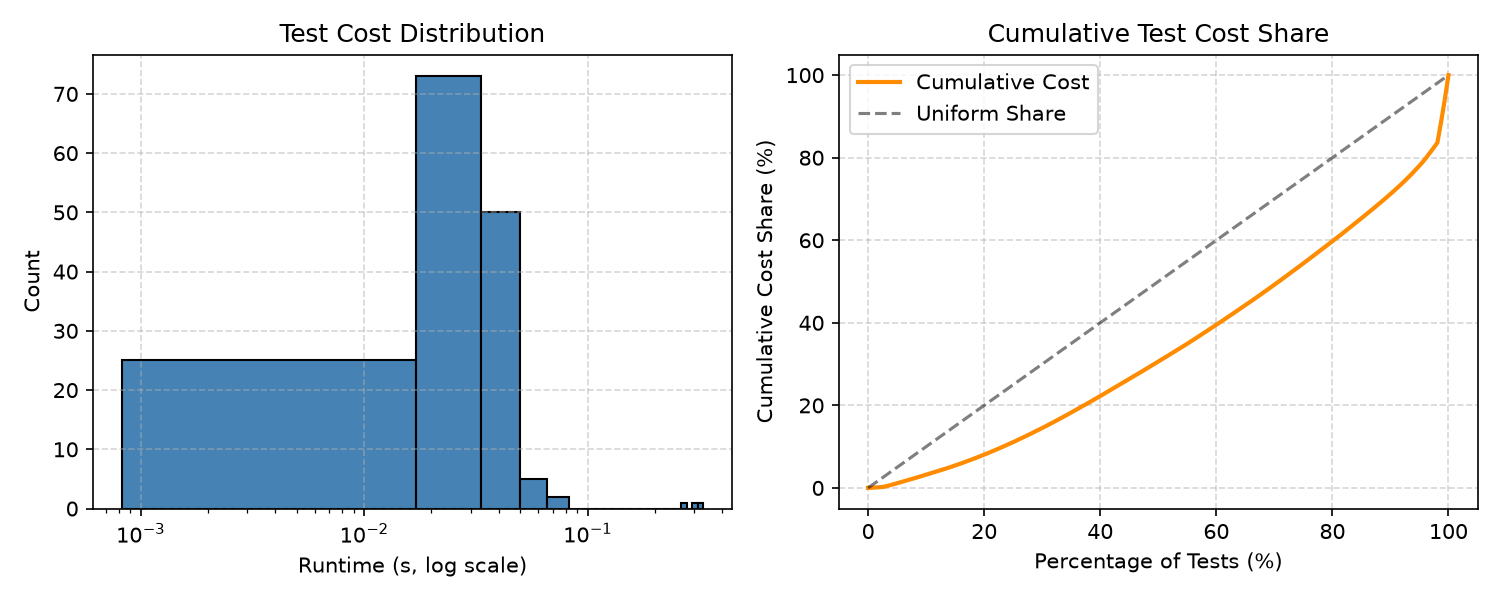
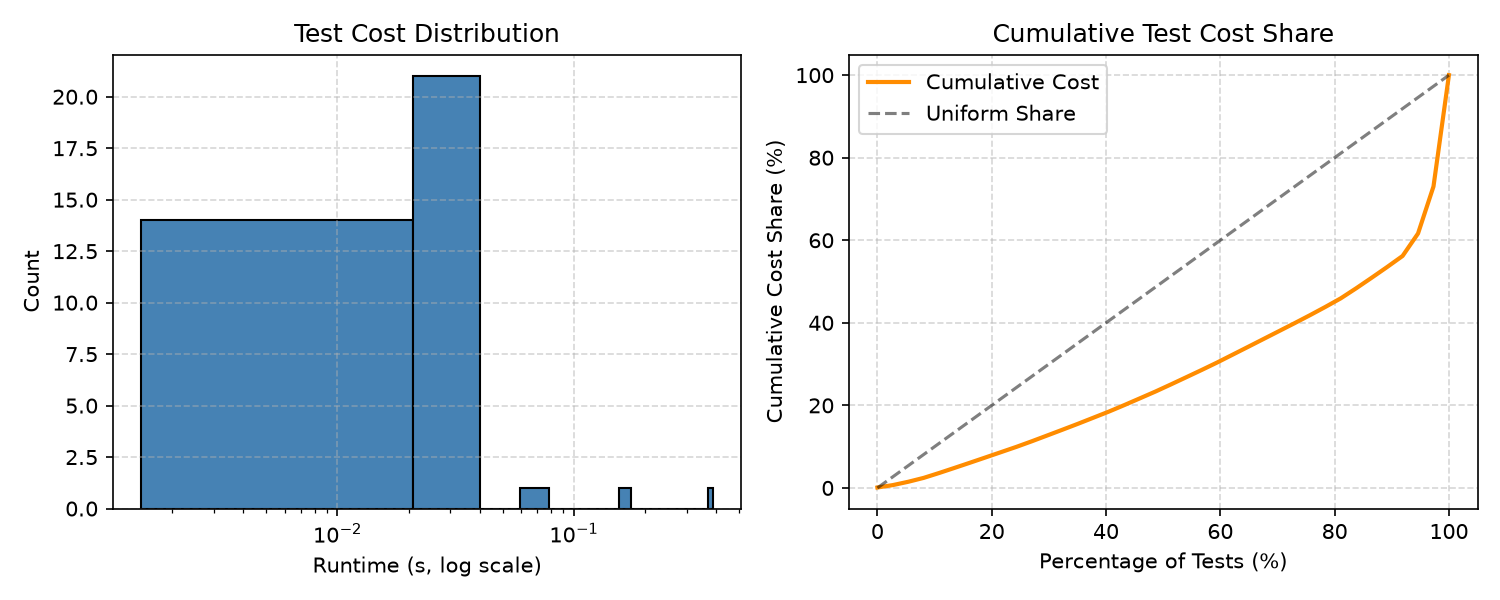
Manual Track J executed and results noted

diff --git a/results/track_j/SUMMARY.md b/results/track_j/SUMMARY.md
@@ -5,7 +5,7 @@
 - **NumPy Version**: 2.5.4
 - **SciPy Version**: 1.18.1
 - **Platform / OS**: Windows-11-10.0.26200-SP0
-- **Quick Execution Flag**: False
+- **Quick Execution Flag**: True
 - **Random Seed Management**: Explicit seeds across all stochastic selections
 
 ## Codebase Under Test Metrics
@@ -24,46 +24,87 @@
 | TOTAL_ALL_COMPILER | 2582 |
 
 ## J0: Baseline Profiling & Test Execution
-- **Total Tests in Universe**: 158
-- **Baseline Median Full-Suite Runtime**: 6.1621 s
-- **Passing Tests**: 158/158
-- **Per-Test Cost (min / median / max)**: 0.00083 s / 0.03013 s / 0.32686 s
-- **Top 10 Slowest Tests Runtime Share**: 23.98%
+- **Total Tests in Universe**: 38
+- **Baseline Median Full-Suite Runtime**: 0.6672 s
+- **Passing Tests**: 38/38
+- **Per-Test Cost (min / median / max)**: 0.00148 s / 0.02409 s / 0.38733 s
+- **Top 10 Slowest Tests Runtime Share**: 60.10%
 
 ### Top 15 Functions by Cumulative Execution Time (cProfile)
 | function | file_line | ncalls | tottime | cumtime |
 | --- | --- | --- | --- | --- |
-| run_ir | cc_ir.py:296 | 948 | 1.882 | 2.828 |
-| optimize_all | cc_passes.py:500 | 158 | 0.0006639 | 2.36 |
-| optimize | cc_passes.py:469 | 158 | 0.0192 | 2.36 |
-| dce | cc_passes.py:361 | 550 | 0.2361 | 2.2 |
-| live_after_each_instruction | cc_ir.py:243 | 1138 | 0.2881 | 1.792 |
-| build_cfg | cc_ir.py:111 | 2788 | 0.3934 | 1.64 |
-| compute_local_def_use | cc_ir.py:98 | 71980 | 0.465 | 1.374 |
-| get_def_use | cc_ir.py:54 | 342132 | 0.7912 | 1.042 |
-| run_machine | cc_vm.py:161 | 158 | 0.4635 | 0.916 |
-| const_fold_prop | cc_passes.py:55 | 942 | 0.1651 | 0.8832 |
-| compute_liveness | cc_ir.py:185 | 1296 | 0.2146 | 0.662 |
-| compile_to_ir | cc_lang.py:530 | 158 | 0.005754 | 0.5464 |
-| <built-in method builtins.isinstance> | ~:0 | 2185790 | 0.5376 | 0.5431 |
-| cse | cc_passes.py:251 | 550 | 0.1196 | 0.5223 |
-| build_live_ranges | cc_regalloc.py:67 | 158 | 0.1706 | 0.4921 |
+| run_ir | cc_ir.py:296 | 228 | 0.497 | 0.7468 |
+| run_machine | cc_vm.py:161 | 38 | 0.1222 | 0.2416 |
+| optimize_all | cc_passes.py:500 | 38 | 4.91e-05 | 0.1596 |
+| optimize | cc_passes.py:469 | 38 | 0.001117 | 0.1595 |
+| dce | cc_passes.py:361 | 125 | 0.01599 | 0.148 |
+| live_after_each_instruction | cc_ir.py:243 | 235 | 0.01872 | 0.1212 |
+| build_cfg | cc_ir.py:111 | 610 | 0.02542 | 0.1124 |
+| <built-in method builtins.isinstance> | ~:0 | 1488385 | 0.1094 | 0.1098 |
+| <built-in method builtins.len> | ~:0 | 1445751 | 0.09833 | 0.09833 |
+| compute_local_def_use | cc_ir.py:98 | 15813 | 0.03314 | 0.09694 |
+| eval_op | cc_lang.py:50 | 484817 | 0.08596 | 0.08596 |
+| get_def_use | cc_ir.py:54 | 74985 | 0.05472 | 0.07259 |
+| read_operand | cc_vm.py:181 | 216690 | 0.05131 | 0.06589 |
+| const_fold_prop | cc_passes.py:55 | 212 | 0.01151 | 0.06097 |
+| compute_liveness | cc_ir.py:185 | 273 | 0.01644 | 0.04806 |
 
 ### Code Coverage Breakdown
 | file | executable_lines | covered_lines | line_coverage_pct | covered_arcs |
 | --- | --- | --- | --- | --- |
 | cc_lang.py | 391 | 236 | 60.36 | 254 |
 | cc_ir.py | 256 | 206 | 80.47 | 260 |
-| cc_passes.py | 299 | 235 | 78.6 | 303 |
+| cc_passes.py | 299 | 233 | 77.93 | 299 |
 | cc_regalloc.py | 233 | 89 | 38.2 | 125 |
 | cc_vm.py | 181 | 139 | 76.8 | 163 |
-| TOTAL | 1360 | 905 | 66.54 | 1105 |
+| TOTAL | 1360 | 903 | 66.4 | 1101 |
 
 - Output Figure: `j0_test_cost_distribution.png`
 
+## J1: Test Suite Minimization (Weighted Set Cover)
+Evaluates full suite against random-until-cover, greedy heuristic, and exact 0/1 ILP minimization.
+- **Kill Matrix Execution**: partial: 0 of 20 mutants completed
+
+| coverage_kind | method | num_tests | summed_cost | actual_runtime | runtime_reduction_pct | coverage_preserved_pct | failing_tests | mutation_score_pct | optimal | solve_time |
+| --- | --- | --- | --- | --- | --- | --- | --- | --- | --- | --- |
+| all | full_suite | 38 | 1.436 | 1.661 | 0 | 100 | 0 | 100 | True | 0 |
+| lines | random_until_cover(mean_N=30.6) | 31 | 1.154 | 1.476 | 11.15 | 100 | 0 | 100 | False | 0 |
+| lines | greedy | 9 | 0.1384 | 0.1864 | 88.78 | 100 | 0 | 100 | False | 0.00406 |
+| lines | ilp | 7 | 0.1108 | 0.1511 | 90.9 | 100 | 0 | 100 | True | 0.06579 |
+| arcs | random_until_cover(mean_N=30.6) | 31 | 1.154 | 1.334 | 19.7 | 100 | 0 | 100 | False | 0 |
+| arcs | greedy | 10 | 0.2166 | 0.3748 | 77.44 | 100 | 0 | 100 | False | 0.01303 |
+| arcs | ilp | 8 | 0.1889 | 0.2968 | 82.13 | 100 | 0 | 100 | True | 0.06217 |
+
+- Output Figure: `j1_minimization_comparison.png`
+
+## J2: Test Prioritization
+Compares cumulative line coverage accumulation over time for greedy additional coverage, cost-ascending, and random orders.
+
+| strategy | normalized_auc |
+| --- | --- |
+| greedy_additional | 0.9974 |
+| cost_ascending | 0.9967 |
+| random_order(mean_over_20_seeds) | 0.9826 |
+
+- Output Figure: `j2_prioritization_curves.png`
+
+## J3: Fault-Injection & Mutation Testing
+Evaluates whether minimized test suites preserve mutant killing capability.
+
+- **Mutation Matrix Status**: partial: 0 of 20 mutants completed
+- **Total Injected Mutants**: 20
+- **Completed Mutants Evaluated**: 0
+- **Detectable Mutants by Full Suite**: 0
+
+> **Note on Fault Injection Proxy**: Fault injection in this benchmark modifies the instruction list output of individual optimization passes. This operates as an empirical proxy for fault-detection ability; structural coverage and fault-detection capability are not theoretically identical.
+
+| method | tests_kept | detectable_killed | detectable_missed | mutation_score_pct | missed_mutants |
+| --- | --- | --- | --- | --- | --- |
+| full | 38 | 0 | 0 | 100 | None |
+| greedy_lines | 9 | 0 | 0 | 100 | None |
+| ilp_lines | 7 | 0 | 0 | 100 | None |
+| greedy_arcs | 10 | 0 | 0 | 100 | None |
+| ilp_arcs | 8 | 0 | 0 | 100 | None |
+
 ## Verification Section
-### Failed Experiment Exceptions
-#### Experiment `INTERRUPTED`
-```python
-KeyboardInterrupt received.
-```
+- **No verification failures**

diff --git a/FAILURE_LOG.md b/FAILURE_LOG.md
@@ -29,5 +29,7 @@ Track bugs, misconceptions, hallucinations, and flawed logic introduced by AI to
 | 23 | I | The generated Track I run deviated silently from the specification: QML baselines were evaluated on one data split (test standard deviation 0) with a 17-parameter MLP that did not converge instead of the specified 13-parameter MLP, quantum phase estimation ran only one phase, Shor's algorithm only N = 15 and 21, the annealing experiment has no classical simulated-annealing baseline, and the specified comparison table was not produced. | Reading SUMMARY.md against the specification. | Not fixed because of the time limit; the report states every deviation, uses the Track B simulated-annealing results as the classical baseline and builds the comparison table by hand from the measured numbers. | Check generated results against the specification line by line; an AI may simplify a task without saying so. |
 | 24 | G | In the generated benchrun workload W2 the fixed-work batch of 4 processes finished in 12 to 16 ticks, although the design (100 ticks of calibrated work per process) implied about 400 ticks; the calibrated iterations per tick evidently did not match the speed of the spin loop that does the work (cause not isolated, probably system calls inside the calibration loop). | Comparing makespan_ticks in the output with the intended duration. | Not fixed; W2 is reported with this caveat and its one-tick resolution. | Calibrate with the same loop that is later measured, and sanity-check durations against the design. |
 | 25 | J | The generated mutation-testing code ran every test under every mutant through all pipeline variants with a very large step limit; in the full run (158 tests, 20 mutants) the kill-matrix computation did not finish and was interrupted by the user (traceback inside the interpreter loop executing a mutated program); the quick run with 38 tests had finished. | Interrupting the run and reading the traceback location. | Step limit proportional to the reference run, only the variants a mutant can affect, a time guard with partial results and progress output. | Test-time cost must be estimated before scaling up: tests x mutants x variants x worst-case run length. |
+| 26 | J | In the generated Track J run (quick mode) the kill matrix finished with "partial: 0 of 20 mutants completed" after a few seconds, although mutants were being evaluated in the full run; the SUMMARY nevertheless reports a mutation score of 100 percent for every selection method (there were 0 detectable mutants, so the score is over an empty set) and the line "No verification failures". Cause not isolated (probably an expired quick-mode deadline). | Reading the J1 and J3 tables of SUMMARY.md. | Not fixed; the fault-detection cost of test minimisation is reported as not measured. | A metric computed over an empty set must be reported as undefined, not as 100 percent, and summaries must flag incomplete experiments. |
+| 27 | J | The baseline full-suite runtime of J0 (0.667 s median in the quick run) is inconsistent with J1 (summed measured test costs 1.436 s, measured full-suite runtime 1.661 s), and two selections of identical size and cost (random order until coverage, lines versus arcs) show runtime reductions of 11.2 and 19.7 percent, so the timing noise is about 8 points. | Comparing tables of SUMMARY.md. | Not fixed; J1 numbers are used because they come from one measurement procedure, and reductions are rounded in the report. | Measure timing with one procedure and repeat it; small differences are noise. |
 
 

diff --git a/README.md b/README.md
@@ -165,7 +165,7 @@ All AI tool interactions used throughout the design, formulation, implementation
 
 | Tool | Model version | Tracks | Dates | Kind of work |
 | :--- | :--- | :--- | :--- | :--- |
-| Antigravity IDE | Claude Sonnet 5.5 | All (setup), A, B, C, D, E, F, G, H, I, J | 2026-10-28, 2026-10-29, 2026-10-30, 2026-10-31, 2026-11-01 | Planning, code generation, unit-test writing, experiment scripting, debugging, documentation (repository skeleton, templates, shared utilities in common/, Track A continuous optimization, Track B discrete optimization, Track C quantum optimization, Track D submodular, parallel and distributed optimization, Track F compiler optimization, Track H DBMS query optimization, Track I quantum algorithms and QML); test correction; experiment scripting (exp1–exp6, Track B discrete benchmarks, Track C quantum experiments C1–C5, Track D experiments D1–D4, Track F experiments F1–F3, Track H DBMS index selection experiments, Track I quantum algorithms and QML experiments I1–I5, run_all, smoke tests); code generation, unit-test writing, experiment scripting, documentation |
+| Antigravity IDE | Claude Sonnet 5.5 | All (setup), A, B, C, D, E, F, G, H, I, J | 2026-10-28, 2026-10-29, 2026-10-30, 2026-10-31, 2026-11-01, 2026-11-05 | Planning, code generation, unit-test writing, experiment scripting, debugging, documentation (repository skeleton, templates, shared utilities in common/, Track A continuous optimization, Track B discrete optimization, Track C quantum optimization, Track D submodular, parallel and distributed optimization, Track F compiler optimization, Track H DBMS query optimization, Track I quantum algorithms and QML); test correction; experiment scripting (exp1–exp6, Track B discrete benchmarks, Track C quantum experiments C1–C5, Track D experiments D1–D4, Track F experiments F1–F3, Track H DBMS index selection experiments, Track I quantum algorithms and QML experiments I1–I5, run_all, smoke tests); code generation, unit-test writing, experiment scripting, documentation |
 | Antigravity IDE | Gemini 3.8 Flash | All Tracks | 2026-10-28 | Repository skeleton, templates, shared utilities |
 | [e.g., Claude] | [e.g., Claude 3.7 Sonnet] | [e.g., Track A, Track C] | [YYYY-MM-DD] | [e.g., Algorithm formulation, test generation] |
 | [e.g., ChatGPT] | [e.g., GPT-4o] | [e.g., Track B] | [YYYY-MM-DD] | [e.g., Debugging ILP formulations] |

diff --git a/tracks/track_j_software_eng/README.md b/tracks/track_j_software_eng/README.md
@@ -35,10 +35,18 @@ python -m pytest tracks/track_j_software_eng/tests -q
 ```
 
 ## Results
-<!-- Experimental outcomes, comparison tables, and plots saved in results/ -->
+All tables and figures are produced by python tracks/track_j_software_eng/run_all.py and listed in results/track_j/SUMMARY.md (the final results use the --quick configuration with 38 tests; results/track_j/SUMMARY_full_J0_only.md, if present, holds the baseline and profile of the 158-test universe: median full-suite runtime 6.16 s, 905 of 1360 executable lines covered). Code under test: 1644 non-blank non-comment lines of the Track F compiler. 38 tests, full suite: summed cost 1.44 s, runtime 1.66 s. Minimisation keeping all covered lines: random order needs 31 tests on average; greedy 9 tests (89 percent measured runtime reduction); exact ILP 7 tests (91 percent). Keeping all covered arcs: greedy 10 tests (77 percent), ILP 8 tests (82 percent). Coverage was preserved at 100 percent with no failing test. Prioritisation: normalised coverage-time area 0.997 for greedy additional coverage and cheapest-first, 0.983 for random orders. Fault-detection cost was not measured (mutation step incomplete).
 
 ## Correctness check
-<!-- Verification steps, assertions, unit tests, and theoretical invariants checked -->
+- All tests pass on the unmodified compiler (38 of 38, and 158 of 158 in the baseline run).
+- Every selection covers 100 percent of the elements it was asked to cover and has no failing tests.
+- ILP cost is at most greedy cost, which is at most the full-suite cost, in every row.
+- Coverage is traced with sys.settrace (line and arc).
 
 ## Limitations
-<!-- Computational bottlenecks, approximations, assumptions, and failure modes -->
+- The final results are for 38 tests, not 158.
+- The fault-injection (mutation) experiment did not complete and its scores (100 percent over zero detectable mutants) are not valid (Failure Log cases 25 and 26), so the loss of fault-detection ability from minimisation is not measured.
+- Coverage is not fault detection.
+- Timings are single-machine wall-clock values with about 8 points of noise.
+- The baseline runtime of J0 and J1 disagree (case 26).
+- The selection must be recomputed when the code changes.

diff --git a/CHECKLIST.md b/CHECKLIST.md
@@ -83,5 +83,5 @@ Progress tracker across Chapter 6 optimization areas and techniques.
 | G | xv6 operating system | tracks/track_g_xv6/ | see results/track_g/ and tracks/track_g_xv6/patches/lottery_scheduler.diff | Done |
 | H | DBMS index selection | tracks/track_h_dbms/ | see results/track_h/SUMMARY.md | Done |
 | I | quantum algorithms and QML | tracks/track_i_quantum_algos_qml/ | see results/track_i/SUMMARY.md | Done |
-| J | software-engineering optimisation | tracks/track_j_software_eng/ | | Code ready - results pending |
+| J | software-engineering optimisation | tracks/track_j_software_eng/ | see results/track_j/SUMMARY.md: minimisation and prioritisation done on 38 tests; mutation testing not completed | Partial |
 
